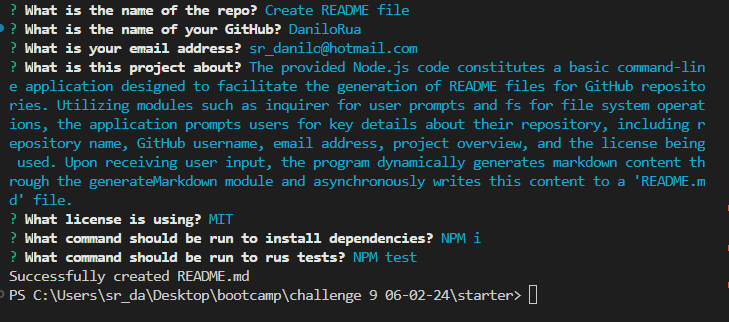
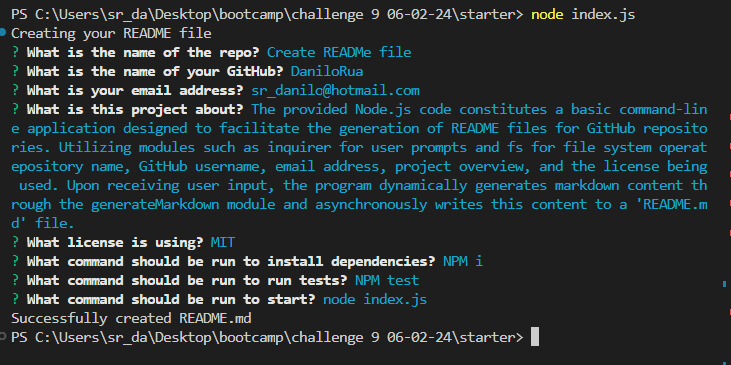
update generateMarkdown.js template literals

diff --git a/utils/generateMarkdown.js b/utils/generateMarkdown.js
@@ -5,11 +5,30 @@ function generateMarkdown(data) {
   ## Overview
 ${data.overview}
 
-## Preview
+## Table of Contents
+1. [Installation](#Installation)
+2. [Usage](#preview)
+3. [License](#License)
+4. [Tests](#Tests)
+5. [Contact](#Contact)
+
+## Installation
+
+- Clone the repository
+- Install using npm packages ${data.install}
+
+## Usage
+
+- After installation type a command line ${data.command}
+- Answer the questions
 ![screenshot](./assets/screenshot.png)
 
 ## License
 Licensed under the [${data.license}](https://github.com/${data.user}/${data.title}/blob/master/LICENSE.txt) license.
+
+## Tests
+
+- Run test using command line ${data.test}
 
 ## Contact
 - GitHub: [${data.user}](https://github.com/${data.user})

diff --git a/index.js b/index.js
@@ -36,15 +36,21 @@ const questions = () => {
     },
     {
       type: 'input',
-      name: 'dependencies',
+      name: 'install',
       message: 'What command should be run to install dependencies?',
       default: 'NPM i'
     },
     {
       type: 'input',
       name: 'test',
-      message: 'What command should be run to rus tests?',
+      message: 'What command should be run to run tests?',
       default: 'NPM test'
+    },
+    {
+      type: 'input',
+      name: 'command',
+      message: 'What command should be run to start?',
+      default: 'node index.js'
     }
   ]
   )

diff --git a/README.md b/README.md
@@ -1,13 +1,32 @@
-# Create README file
+# Create READMe file
 
   ## Overview
-The provided Node.js code constitutes a basic command-line application designed to facilitate the generation of README files for GitHub repositories. Utilizing modules such as inquirer for user prompts and fs for file system operations, the application prompts users for key details about their repository, including repository name, GitHub username, email address, project overview, and the license being used. Upon receiving user input, the program dynamically generates markdown content through the generateMarkdown module and asynchronously writes this content to a 'README.md' file.
+The provided Node.js code constitutes a basic command-line application designed to facilitate the generation of README files for GitHub repositories. Utilizing modules such as inquirer for user prompts and fs for file system operatepository name, GitHub username, email address, project overview, and the license being used. Upon receiving user input, the program dynamically generates markdown content through the generateMarkdown module and asynchronously writes this content to a 'README.md' file.
 
-## Preview
-![screenshot](./assets/screenshot.PNG)
+## Table of Contents
+1. [Installation](#Installation)
+2. [Usage](#preview)
+3. [License](#License)
+4. [Tests](#Tests)
+5. [Contact](#Contact)
+
+## Installation
+
+- Clone the repository
+- Install using npm packages NPM i
+
+## Usage
+
+- After installation type a command line node index.js
+- Answer the questions
+![screenshot](./assets/screenshot.png)
 
 ## License
-Licensed under the [MIT](https://github.com/DaniloRua/Create README file/blob/master/LICENSE.txt) license.
+Licensed under the [MIT](https://github.com/DaniloRua/Create READMe file/blob/master/LICENSE.txt) license.
+
+## Tests
+
+- Run test using command line NPM test
 
 ## Contact
 - GitHub: [DaniloRua](https://github.com/DaniloRua)
